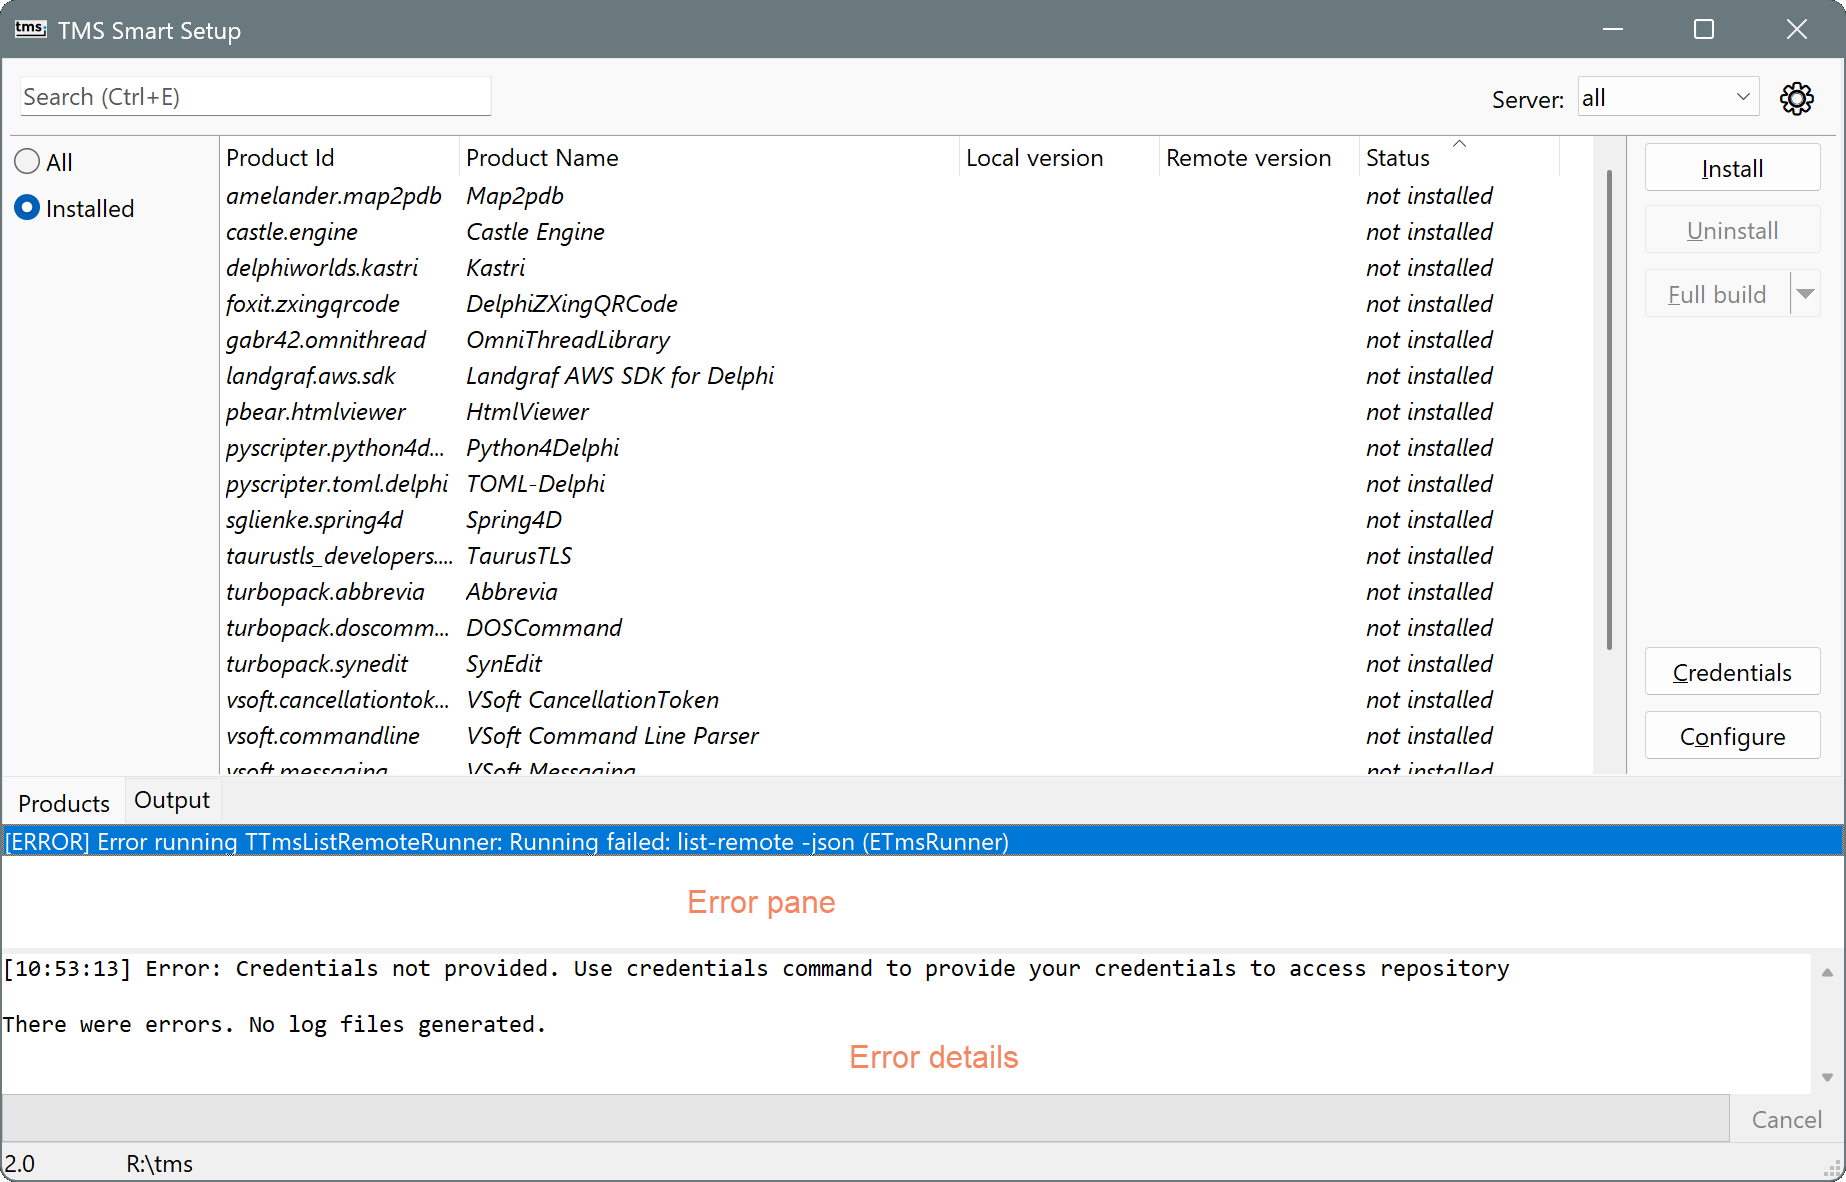
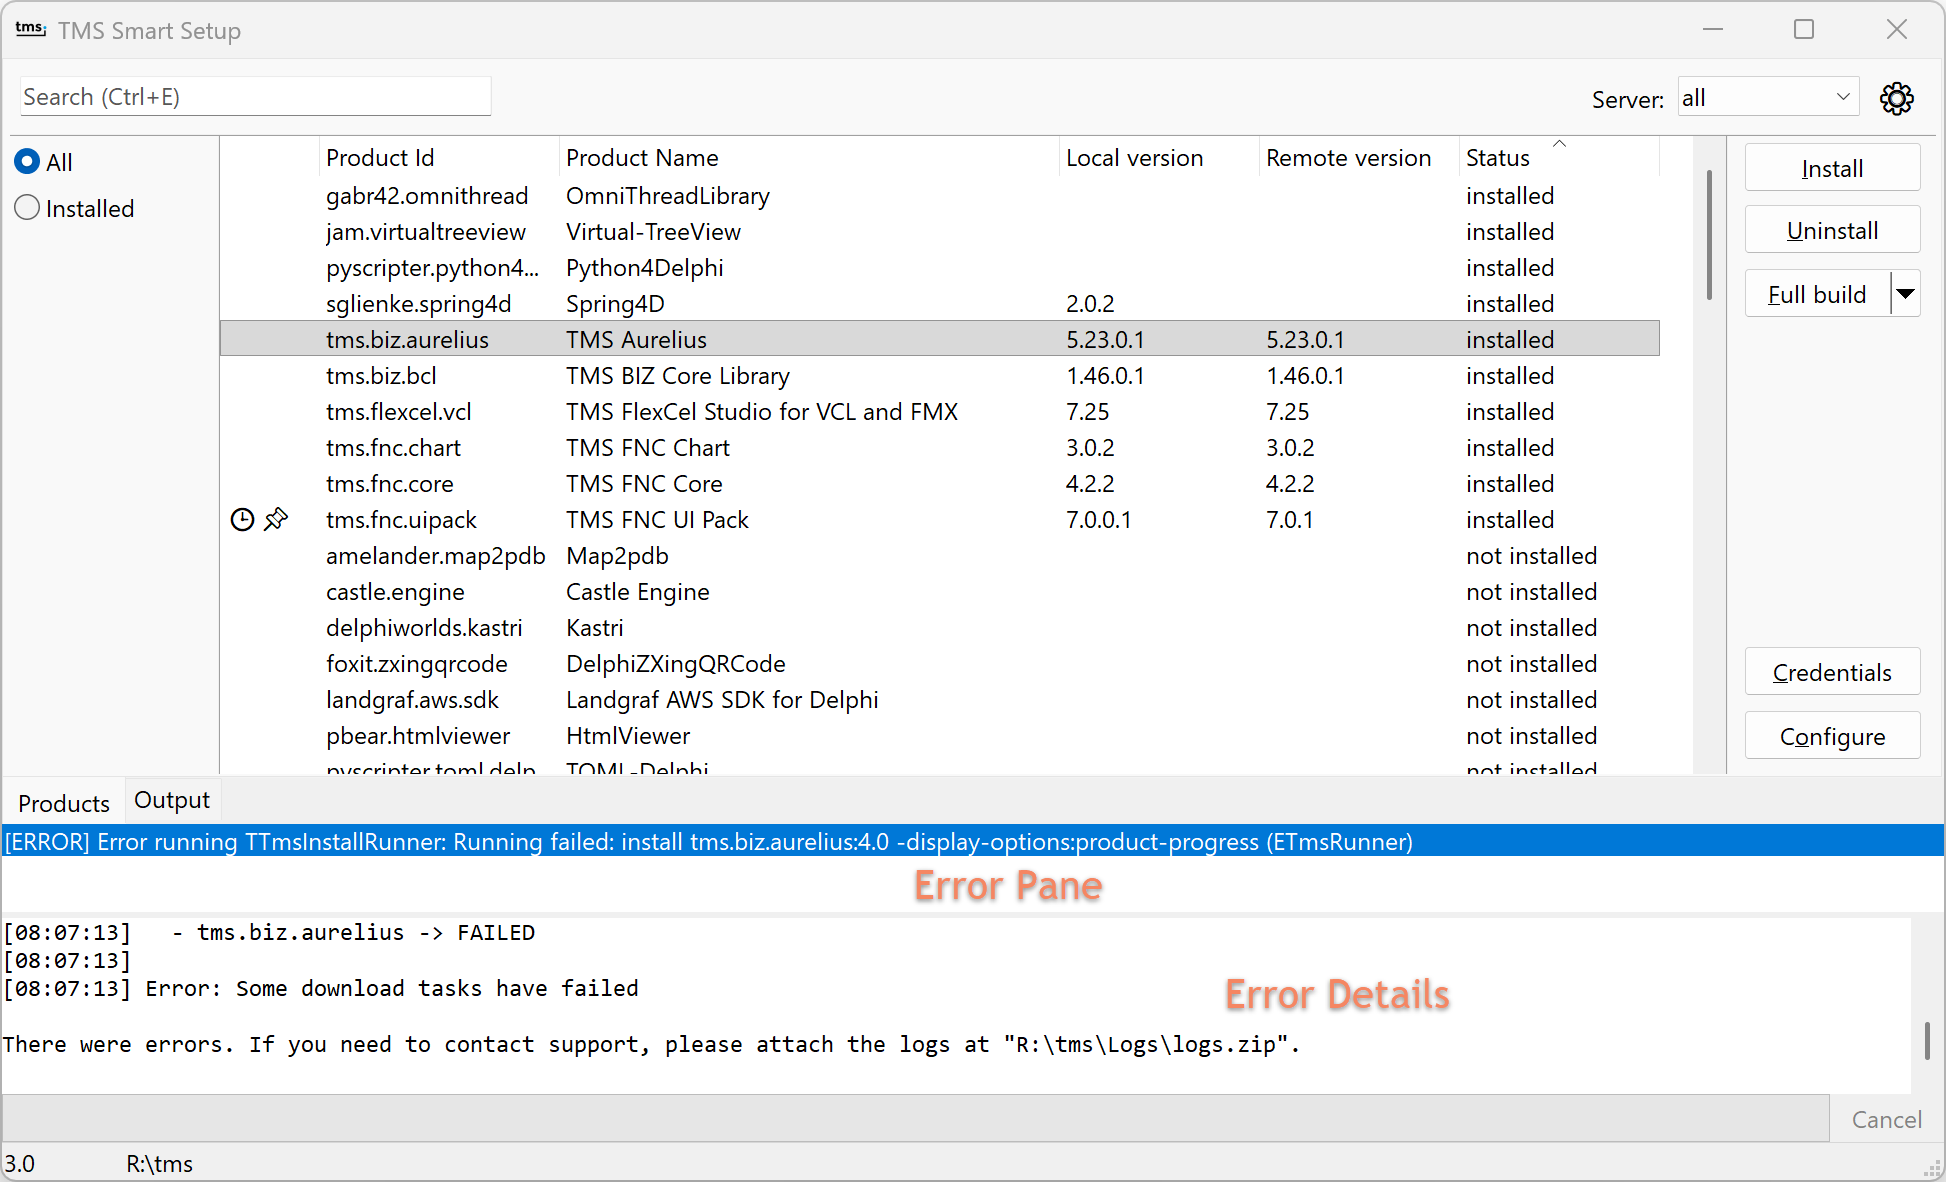
Updating the docs for a 3.0 release
This updates the release notes and the tmsgui page. The versioning page isn't written yet.

diff --git a/doc/source/guide/gui-tool-usage.md b/doc/source/guide/gui-tool-usage.md
@@ -5,6 +5,8 @@ uid: SmartSetup.GUIToolUsage
 ---
 # GUI tool usage
 
+## Main Screen
+
 Alternatively to command-line, you can use the GUI tool. Just launch `tmsgui.exe` executable. 
 
 If the working folder is not initialized, it will first ask you what servers you want to enable:
@@ -21,23 +23,48 @@ And then you should arrive at the main view:
 
 {{#image}}tmsgui-main-screen.png{{/image}}
 
-1. **Search box**: type to find the product you want to install
+1. **Search box**: type to find the product you want to install.
 2. **Filter pane**: select whether to see all available products, or only installed ones.
-3. **Product list**: a list of all products installed or available
-4. **Server selection box**: this box is only visible if there is more than one active server, and it allows filtering the results by server
-5. **Settings**: Set general settings for tms/tmsgui
-6. **Install**: download and install the selected products. Equivalent to `tms install` command.
-7. **Uninstall**: uninstall the selected products. Equivalent to `tms uninstall` command.
-8. **Full build/partial build**: rebuild the selected products. If no products are selected, rebuild everything. Equivalent to `tms build -full` and `tms build` commands.
-9. **Credentials**: ask for new credentials. Equivalent to `tms credentials` command.
-10. **Configure**: create (if missing) and open the YAML configuration file. Equivalent to `tms config` command.
-11. **Output tab**: shows the output of the current command-line being executed. For long-running commands like installing and building, you can switch to it to follow the progress of the execution.
-12. **Status bar**: at the bottom of the main window, the GUI displays the current working folder, and the current Smart Setup version.
+3. **Product list**: a list of all products installed or available.
+4. **Status column**: shows if a product is outdated and/or pinned.
+5. **Server selection box**: this box is only visible if there is more than one active server, and it allows filtering the results by server.
+6. **Settings**: set general settings for tms/tmsgui.
+7. **Install**: download and install the selected products. Equivalent to `tms install` command.
+8. **Uninstall**: uninstall the selected products. Equivalent to `tms uninstall` command.
+9. **Full build/partial build**: rebuild the selected products. If no products are selected, rebuild everything. Equivalent to `tms build -full` and `tms build` commands.
+10. **Credentials**: ask for new credentials. Equivalent to `tms credentials` command.
+11. **Configure**: create (if missing) and open the YAML configuration file. Equivalent to `tms config` command.
+12. **Output tab**: shows the output of the current command-line being executed. For long-running commands like installing and building, you can switch to it to follow the progress of the execution.
+13. **Status bar**: at the bottom of the main window, the GUI displays the current working folder, and the current Smart Setup version.
 
+## Errors
 When there are errors, an error pane will show:
 
 {{#image}}tmsgui-errors.png{{/image}}
 
 If you click on the messages in the error pane, it will show more detailed information about the particular error.
 
+## Versioning
+
+While by default SmartSetup installs the latest versions of the selected products, you can install any available [version](xref:SmartSetup.Versioning) of any product.
+
+### Installing a version
+To install a specific version, right click in the product:
+
+{{#image}}tmsgui-main-right-click.png{{/image}}
+
+And select "Install version":
+
+{{#image}}tmsgui-install-version.png{{/image}}
+
+{{#Note}}
+For products hosted in an API server like tms, this dialog will show the versions available in the server. For products hosted in a git repository, it will show all the tags in the repository. For example, for Spring4D it will show:
+
+{{#image}}tmsgui-install-version-community.png{{/image}}
+
+{{/Note}}
+
+### Pinning a version
+
+After installing any version (including the latest), you can right click again in the product and **Pin** the product to that version. Pinned products will show with a pin in the status column, and will stay in that version until you unpin them.
 

diff --git a/doc/source/guide/release-notes.md b/doc/source/guide/release-notes.md
@@ -3,16 +3,42 @@ uid: SmartSetup.ReleaseNotes
 ---
 
 # Release Notes
+## Version 3.0
+ - **New**: [Versioning](xref:SmartSetup.Versioning) support. You can now install any available version of any product
+
+ - **New**: [Snapshots](xref:SmartSetup.Versioning#snapshots). You can get a list of every component and version installed at any point in time, and restore that snapshot
+
+ - **New**: [Pinning](xref:SmartSetup.Versioning#pinning-versions) support. You can now pin a product to a specific version, and it won't update until you unpin it.
+
+ - **New**: Support for dependencies for products in the community server. Now products in the community server can depend in other products in any other zipfile server.
+
+ - **New**: "working folder" configuration option. It allows you to keep the working folder for SmartSetup (where logs, products, etc go) in an arbitrary folder, not necessarily at the same folder where tms.config.yaml is.
+
+ - **New**: Dark mode support in tmsgui
+
+ - **New**: [tms doctor](xref:Smartsetup.Doctor) can now check for duplicated bpls.
+
+ - **New**: tmsgui has a new column showing the status of the products
+
+ - **Improved** Now the "excluded folders" in the config file apply also to fetching and uninstalling. Before, those products were only excluded from a build.
+
+ - **Fixed**: Products in the community server were failing to update some settings in corner cases.
+
+ - **Fixed**: Unified behavior between API and Community servers. Before, API servers would stop if some operation failed, but Community servers would skip the errors and try to build anyway. Now all servers stop if there is a fetching error.
+
+
 
 ## Version 2.3 (October, 2025)
- - **Fixed** `error :  failed to find / extract cached MinGW includes: PathAlreadyExists` could happen when trying to compile in a newly installed Delphi 13
+ - **Fixed**: `error :  failed to find / extract cached MinGW includes: PathAlreadyExists` could happen when trying to compile in a newly installed Delphi 13
 
 ## Version 2.2 (September, 2025)
-- **New** Delphi 13 official support.
-- **New** For security reasons, now SmartSetup won't run pre/post build events when installing. You can edit tms.config.yaml to allow pre/post build events for specific projects.
+- **New**: Delphi 13 official support.
+
+- **New**: For security reasons, now SmartSetup won't run pre/post build events when installing. You can edit tms.config.yaml to allow pre/post build events for specific projects.
 
 ## Version 2.1 (August, 2025)
-- **New** The config file now comes with a yaml schema that provides autocompletion and syntax checking when you edit it in an editor with yaml scheme support like VSCode.
+- **New**: The config file now comes with a yaml schema that provides autocompletion and syntax checking when you edit it in an editor with yaml scheme support like VSCode.
+
 - **Improved** Rewritten config-read command can now return the full configuration as a JSON object, and it can return from the full configuration to some sections, to a specific property.
 
 ## Version 2.0 (August, 2025)

diff --git a/doc/source/guide/doctor.md b/doc/source/guide/doctor.md
@@ -89,6 +89,15 @@ These checks apply to every installed Delphi IDE and platform.
 - **Why It Matters:** Non-existent paths unnecessarily bloat the library path and can cause build slowdowns or failures.
 - **Fix:** Suggests removing such paths.
 
+These checks apply to every installed Delphi IDE and platform.
+
+### ✅ Duplicated Files Checks
+#### 6. **Duplicated BPLs**
+- **Description:** Looks in the Windows Path for duplicated bpls.
+- **Why It Matters:** If you have two different bpls in the Windows Path, Rad Studio is very likely to find the wrong bpl and show an error message when loading.
+- **Fix:** Opens the folders where the duplicated bpls are, in file explorer, so you can delete the wrong ones. As you need to be very sure to remove the right bpls, this test won't automatically delete any file, you need to remove them yourself.
+
+
 ## What It Changes
 
 When fixes are applied (using `-fix`), the following system areas **may be modified**:
@@ -97,6 +106,7 @@ When fixes are applied (using `-fix`), the following system areas **may be modif
 - Delphi IDE configurations: IDE environment overrides and library paths.
 
 All changes are logged and undo information is saved in a specific folder, so manual rollback is possible if needed.
+
 
 ## Troubleshooting Tips
 

diff --git a/doc/source/guide/versioning.md b/doc/source/guide/versioning.md
@@ -1,0 +1,5 @@
+---
+uid: SmartSetup.Versioning
+---
+
+# Versioning
